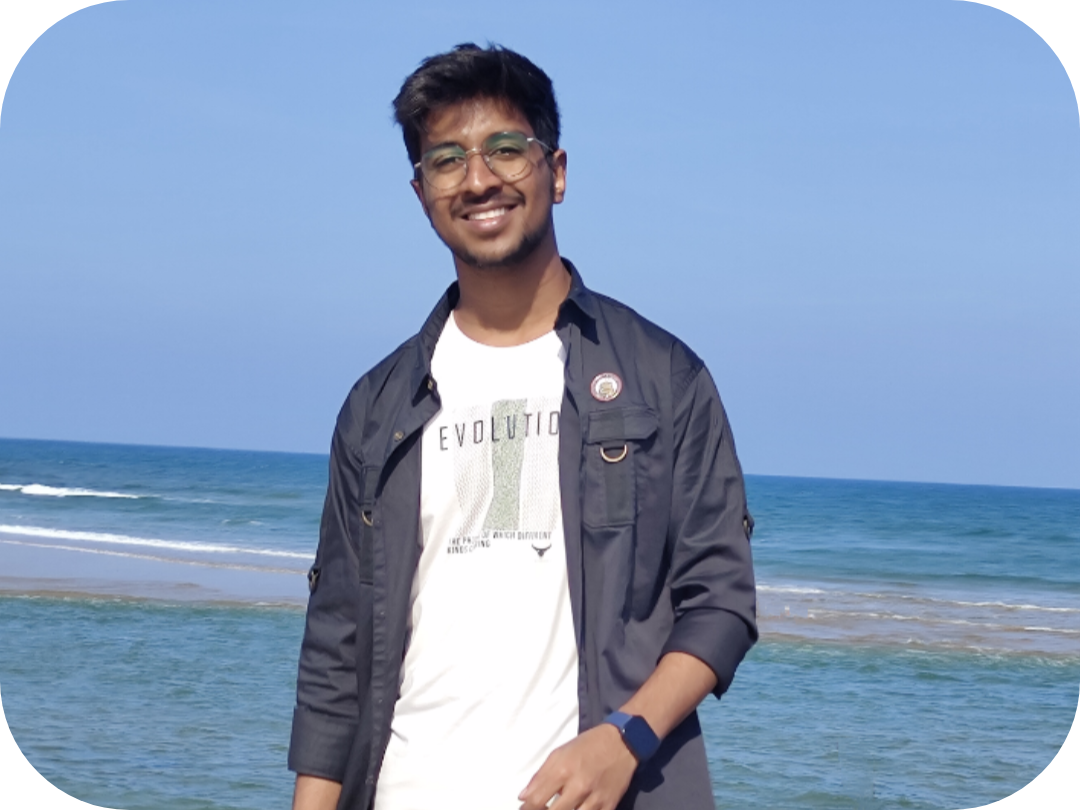
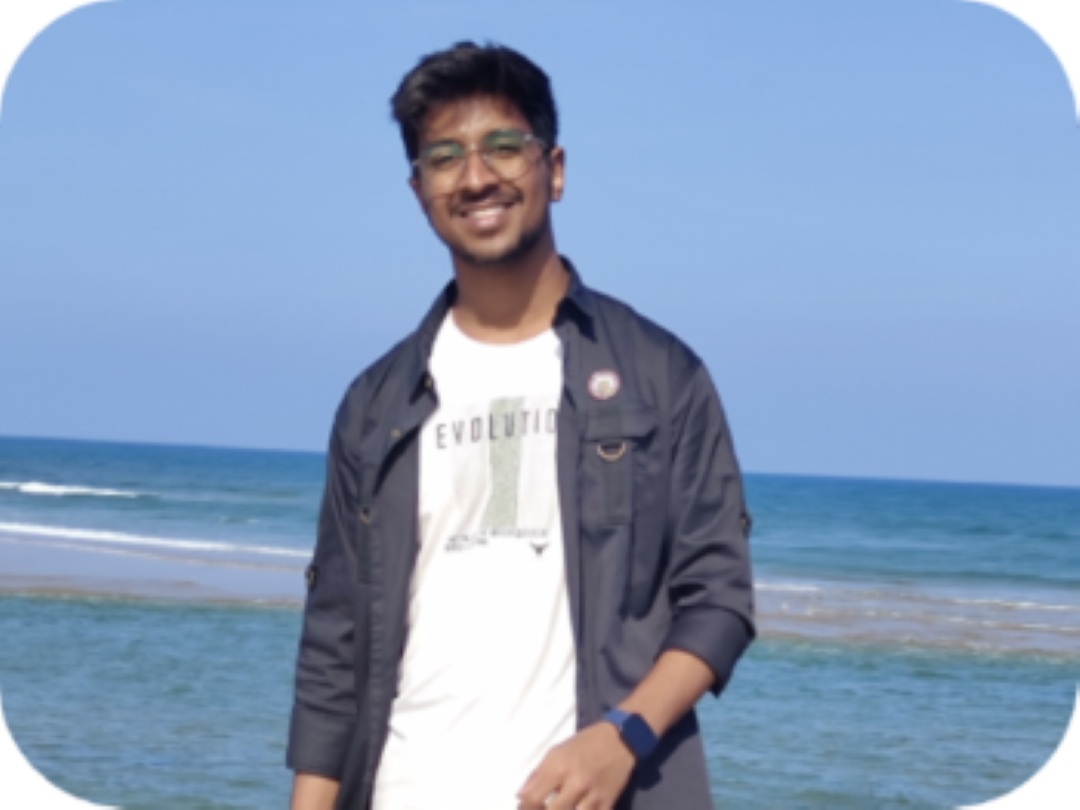
home image

diff --git a/index.html b/index.html
@@ -32,17 +32,23 @@
         <i class="fa-solid fa-bars" onclick="openmenu()"></i>
       </nav>
       <div class="container">
-        <div class="header-text">
-          <p class="" style="width: fit-content" id="roleText">
-            <span>
-              Mechatornics <k style="color: aliceblue">&</k> Automation
-              <j style="color: aliceblue">engineer</j></span
-            >
-            <span style="display: none"
-              >Game developer <v style="color: aliceblue">/</v> VFX Artist</span
-            >
-          </p>
-          <h1 style="width: fit-content">Hi, I am <span>Akshay D H</span></h1>
+        <div class="header-text" style="display: flex; justify-content:space-between;">
+          <div>
+            <p class="" style="width: fit-content" id="roleText">
+              <span>
+                Mechatornics <k style="color: aliceblue">&</k> Automation
+                <j style="color: aliceblue">engineer</j></span
+              >
+              <span style="display: none"
+                >Game developer <v style="color: aliceblue">/</v> VFX
+                Artist</span
+              >
+            </p>
+            <h1 style="width: fit-content">Hi, I am <span>Akshay D H</span></h1>
+          </div>
+          <div class="profile-img">
+            <img src="Images/portfolio-image-modified.png" alt="" />
+          </div>
         </div>
       </div>
       <script src="js.js"></script>
@@ -249,23 +255,23 @@
             <img src="Images/work1)(.png" alt="" />
             <div class="layer">
               <h3>Overview of the Level design</h3>
-                <p>Made a military base with some static assets in it</p>
-                <a href="https://youtu.be/uezkgrSJsrw" target="_blank"
-                  ><i class="fa-solid fa-arrow-up-right-from-square"></i>
-                  </a>
+              <p>Made a military base with some static assets in it</p>
+              <a href="https://youtu.be/uezkgrSJsrw" target="_blank"
+                ><i class="fa-solid fa-arrow-up-right-from-square"></i>
+              </a>
             </div>
           </div>
           <div class="work">
             <img src="Images/work2_1.jpg" alt="" />
             <div class="layer">
               <h3>Effects and Camera showcase</h3>
-                <p>
-                  Made some Niagara effetcs on Unreal Engine and lighting
-                  adjustment
-                </p>
-                <a href="https://youtu.be/GDuopEIahJE" target="_blank"
-                  ><i class="fa-solid fa-arrow-up-right-from-square"></i>
-                </a>
+              <p>
+                Made some Niagara effetcs on Unreal Engine and lighting
+                adjustment
+              </p>
+              <a href="https://youtu.be/GDuopEIahJE" target="_blank"
+                ><i class="fa-solid fa-arrow-up-right-from-square"></i>
+              </a>
             </div>
           </div>
           <div class="work">
@@ -286,7 +292,9 @@
               <div class="layer">
                 <h3>City Park Poster</h3>
                 <p>Download Now</p>
-                <a href="https://drive.google.com/file/d/1fj7RFFo9f9_XTjznIetMqKNdB8zGkgza/view?usp=sharing" target="_blank"
+                <a
+                  href="https://drive.google.com/file/d/1fj7RFFo9f9_XTjznIetMqKNdB8zGkgza/view?usp=sharing"
+                  target="_blank"
                   ><i class="fa-solid fa-arrow-up-right-from-square"></i
                 ></a>
               </div>
@@ -295,10 +303,10 @@
               <img src="Images/image2.png" alt="" />
               <div class="layer">
                 <h3>City Park Poster</h3>
-                <p>
-                  Download Now
-                </p>
-                <a href="https://drive.google.com/file/d/1YBDR23Ejn1b5QeVR5uL0KtvCH1mkVkMm/view?usp=sharing" target="_blank"
+                <p>Download Now</p>
+                <a
+                  href="https://drive.google.com/file/d/1YBDR23Ejn1b5QeVR5uL0KtvCH1mkVkMm/view?usp=sharing"
+                  target="_blank"
                   ><i class="fa-solid fa-arrow-up-right-from-square"></i
                 ></a>
               </div>
@@ -307,10 +315,10 @@
               <img src="Images/image3.png" alt="" />
               <div class="layer">
                 <h3>City Park Poster</h3>
-                <p>
-                  Download Now
-                </p>
-                <a href="https://drive.google.com/file/d/1hdvZkcPsR8yVuTE67_qXIrKnjjtHzgW3/view?usp=sharing" target="_blank"
+                <p>Download Now</p>
+                <a
+                  href="https://drive.google.com/file/d/1hdvZkcPsR8yVuTE67_qXIrKnjjtHzgW3/view?usp=sharing"
+                  target="_blank"
                   ><i class="fa-solid fa-arrow-up-right-from-square"></i
                 ></a>
               </div>
@@ -321,10 +329,10 @@
               <img src="Images/image4.png" alt="" />
               <div class="layer">
                 <h3>City Park Poster</h3>
-                <p>
-                  Download Now
-                </p>
-                <a href="https://drive.google.com/file/d/1GCxGSKocUVbEhhCGtiIzvMpx8kv8Zx2v/view?usp=sharing" target="_blank"
+                <p>Download Now</p>
+                <a
+                  href="https://drive.google.com/file/d/1GCxGSKocUVbEhhCGtiIzvMpx8kv8Zx2v/view?usp=sharing"
+                  target="_blank"
                   ><i class="fa-solid fa-arrow-up-right-from-square"></i
                 ></a>
               </div>
@@ -333,10 +341,10 @@
               <img src="Images/image9.jpg" alt="" />
               <div class="layer">
                 <h3>City Park Poster</h3>
-                <p>
-                  Download Now
-                </p>
-                <a href="https://drive.google.com/file/d/1r3ydgtgzvFbIxhv4Besi3BmmYDH0EH51/view?usp=sharing" target="_blank"
+                <p>Download Now</p>
+                <a
+                  href="https://drive.google.com/file/d/1r3ydgtgzvFbIxhv4Besi3BmmYDH0EH51/view?usp=sharing"
+                  target="_blank"
                   ><i class="fa-solid fa-arrow-up-right-from-square"></i
                 ></a>
               </div>
@@ -345,10 +353,10 @@
               <img src="Images/image6.png" alt="" />
               <div class="layer">
                 <h3>For more City Park Poster</h3>
-                <p>
-                  Click on the link to Download
-                </p>
-                <a href="https://drive.google.com/drive/folders/1T7M34UhJIr8uY8qYH8iSmmicn6xmidFZ?usp=sharing" target="_blank"
+                <p>Click on the link to Download</p>
+                <a
+                  href="https://drive.google.com/drive/folders/1T7M34UhJIr8uY8qYH8iSmmicn6xmidFZ?usp=sharing"
+                  target="_blank"
                   ><i class="fa-solid fa-arrow-up-right-from-square"></i
                 ></a>
               </div>
@@ -371,10 +379,10 @@
           <div id="certi1">
             Akiyam Solution Internship
             <a
-              href="https://drive.google.com/file/d/1ETRsMplVbPNbNtZDlw-xkXykjFDSNRBL/view?usp=sharing" 
+              href="https://drive.google.com/file/d/1ETRsMplVbPNbNtZDlw-xkXykjFDSNRBL/view?usp=sharing"
               target="_blank"
             >
-            <fi class="fa-solid fa-up-right-from-square"></fi>
+              <fi class="fa-solid fa-up-right-from-square"></fi>
             </a>
           </div>
           <div id="certi2">
@@ -383,16 +391,16 @@
               href="https://drive.google.com/file/d/1b9cVEeZcOPz6bqzYPoQLHgJ6SmzOF5uO/view?usp=sharing"
               target="_blank"
             >
-            <fi class="fa-solid fa-up-right-from-square"></fi>
+              <fi class="fa-solid fa-up-right-from-square"></fi>
             </a>
           </div>
           <div id="certi3">
             Complete blender creator
             <a
-              href="https://ude.my/UC-4cf253a4-066b-4c10-8905-6446b7cf8ebd" 
+              href="https://ude.my/UC-4cf253a4-066b-4c10-8905-6446b7cf8ebd"
               target="_blank"
             >
-            <fi class="fa-solid fa-up-right-from-square"></fi>
+              <fi class="fa-solid fa-up-right-from-square"></fi>
             </a>
           </div>
           <div id="certi4">

diff --git a/Style.css b/Style.css
@@ -69,6 +69,14 @@ nav ul li a:hover::after {
   width: 100%;
 }
 
+.header-text img{
+  height: 255px;
+}
+
+.profile-img img:hover{
+  /* transition: 1s; */
+  transform: scale(1.025);
+}
 .header-text {
   margin-top: 15%;
   font-size: 30px;
